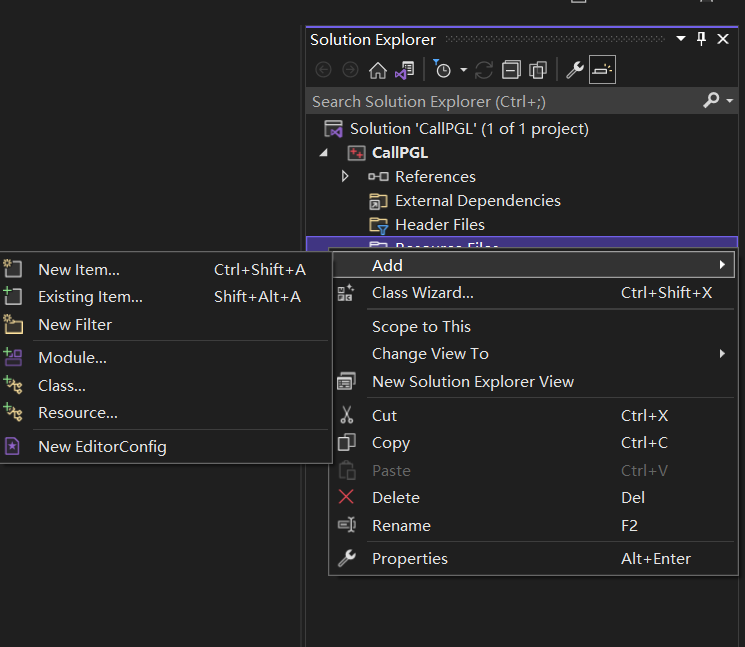
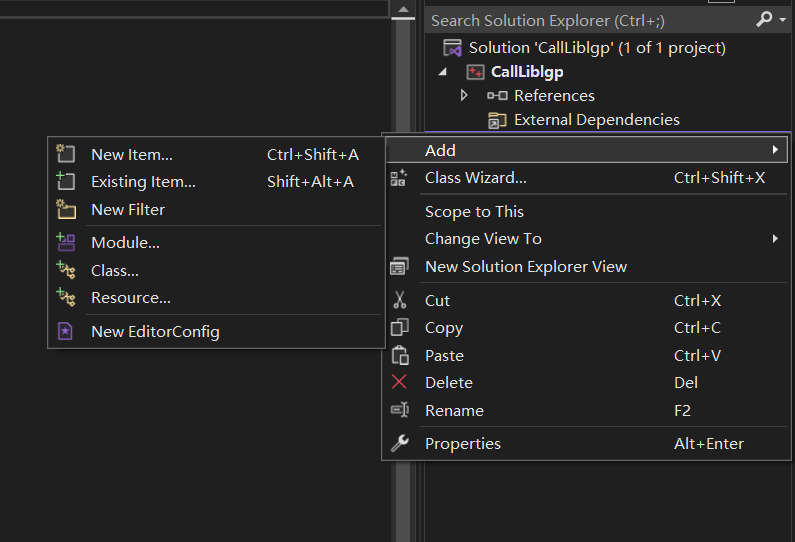
update

Changed region(s): [[0.0, 0.0, 1.0, 1.0], [0.0, 0.2657, 0.2779, 0.6494], [0.8336, 0.5314, 0.9262, 0.5609]]

diff --git a/RI.hpp b/RI.hpp
@@ -3,13 +3,13 @@
 
 #include <iostream>
 #include <map>
-#include "pgl_functs.hpp"
+#include "Liblgp_functs.hpp"
 #include <random>
 #include <unordered_map>
 #include <unordered_set>
 #include <iomanip>
 
-using namespace PGL;
+using namespace Liblgp;
 
 
 //Resume IO Info

diff --git a/README.md b/README.md
@@ -5,27 +5,27 @@ his code is header-only Library developed by Haisen Zhao for his research projec
 Depend on [glm](https://github.com/g-truc/glm.git) and [eigen](https://github.com/libigl/eigen.git) but you don't need to install them explicitly.
 
 
-# Call PGL
+# Call Liblgp
 
 ## Create Project
 - Open your Visual Studio and create a new project.![image-create_a_new_project](images/image-create_a_new_project.png)
 - Right-click on your project in the "Solution Explorer" and select "Add" "New item..."![add-item](images/add-item.png)
 
-## Call PGL in your project
-- Download pgl\_functs.hpp,RI.hpp,tinyxml2.hpp and local\_libs
-- Found Eigen and glm in the local_libs folder and copy pgl\_functs.hpp,RI.hpp,tinyxml2.hpp and the Eigen and glm folders under the local folder to the project location![move_file](images/move_file.png)
-- Then you can call PGL in your code!
-- You can run the following code to check if PGL can be called
+## Call Liblgp in your project
+- Download Liblgp\_functs.hpp,RI.hpp,tinyxml2.hpp and local\_libs
+- Found Eigen and glm in the local_libs folder and copy Liblgp\_functs.hpp,RI.hpp,tinyxml2.hpp and the Eigen and glm folders under the local folder to the project location![move_file](images/move_file.png)
+- Then you can call Liblgp in your code!
+- You can run the following code to check if Liblgp can be called
 
 ```cpp
 
 #include "iostream"
-#include "pgl_functs.hpp"
+#include "Liblgp_functs.hpp"
 #include "RI.hpp"
 #include "tinyxml2.hpp"
 
 using namespace std;
-using namespace PGL;
+using namespace Liblgp;
 
 int main(int argc, char* argv[])
 
@@ -45,50 +45,78 @@ int main(int argc, char* argv[])
 
 ```
 
-include(ExternalProject)
-ExternalProject_Add(
-    pgl
-    PREFIX ${CMAKE_BINARY_DIR}/third_party/pgl
-    GIT_REPOSITORY https://github.com/haisenzhao/personal-geom-lib.git
-    CONFIGURE_COMMAND ""
-	UPDATE_DISCONNECTED 1
-    BUILD_COMMAND ""
-    INSTALL_COMMAND ""
-    LOG_DOWNLOAD ON
-    )
-ExternalProject_Get_Property(pgl source_dir)
-set(PglIncludeDir ${source_dir})
+cmake_minimum_required(VERSION 3.5)
 
-ExternalProject_Add(
-    glm
-    PREFIX ${CMAKE_BINARY_DIR}/third_party/glm
-    GIT_REPOSITORY https://github.com/g-truc/glm.git
-    CONFIGURE_COMMAND ""
-	UPDATE_DISCONNECTED 1
-    BUILD_COMMAND ""
-    INSTALL_COMMAND ""
-    LOG_DOWNLOAD ON
-    )
-ExternalProject_Get_Property(glm source_dir)
-set(GlmIncludeDir ${source_dir})
+set(CMAKE_CXX_STANDARD 11)
 
-ExternalProject_Add(
-    eigen
-    PREFIX ${CMAKE_BINARY_DIR}/third_party/eigen
-    GIT_REPOSITORY https://github.com/libigl/eigen.git
-    CONFIGURE_COMMAND ""
-	UPDATE_DISCONNECTED 1
-    BUILD_COMMAND ""
-    INSTALL_COMMAND ""
-    LOG_DOWNLOAD ON
-    )
-ExternalProject_Get_Property(eigen source_dir)
-set(EigenIncludeDir ${source_dir})
+# Set the project name
+project (liblgp)
 
-include_directories(${GlmIncludeDir} ${PglIncludeDir} ${EigenIncludeDir})
-add_dependencies(${PROJECT_NAME} pgl)
-add_dependencies(${PROJECT_NAME} glm)
-add_dependencies(${PROJECT_NAME} eigen)
+#add _CRT_SECURE_NO_WARNINGS
+if(MSVC)
+    add_definitions(-D_CRT_SECURE_NO_WARNINGS)
+endif()
+
+#define option to use local libs
+option(USE_LOCAL_LIBS "Use local library" OFF)
+
+
+# Create a sources variable with a link to all cpp files to compile
+set(SOURCES
+    Liblgp_functs.hpp
+    RI.hpp
+    tinyxml2.hpp
+    main.cpp
+)
+# Add an executable with the above sources
+add_executable(liblgp ${SOURCES})
+
+if(USE_LOCAL_LIBS)
+   set(GlmIncludeDir ${PROJECT_SOURCE_DIR}/local_libs)
+   set(EigenIncludeDir ${PROJECT_SOURCE_DIR}/local_libs)
+else()
+   include(ExternalProject)
+   ExternalProject_Add(
+       glm
+       PREFIX ${CMAKE_BINARY_DIR}/third_party/glm
+       GIT_REPOSITORY https://github.com/g-truc/glm.git
+       CONFIGURE_COMMAND ""
+   	   UPDATE_DISCONNECTED 1
+       BUILD_COMMAND ""
+       INSTALL_COMMAND ""
+       LOG_DOWNLOAD ON
+       )
+   ExternalProject_Get_Property(glm source_dir)
+   set(GlmIncludeDir ${source_dir})
+
+
+   ExternalProject_Add(
+       eigen
+       PREFIX ${CMAKE_BINARY_DIR}/third_party/eigen
+       GIT_REPOSITORY https://github.com/libigl/eigen.git
+       CONFIGURE_COMMAND ""
+	   UPDATE_DISCONNECTED 1
+       BUILD_COMMAND ""
+       INSTALL_COMMAND ""
+       LOG_DOWNLOAD ON
+       )
+   ExternalProject_Get_Property(eigen source_dir)
+   set(EigenIncludeDir ${source_dir})
+endif()
+
+
+
+target_include_directories(${PROJECT_NAME} PUBLIC ${PROJECT_BINARY_DIR} PRIVATE ${GlmIncludeDir} ${EigenIncludeDir})
+
+include_directories(${PROJECT_SOURCE_DIR})
+
+if(NOT USE_LOCAL_LIBS)
+   add_dependencies(${PROJECT_NAME} glm)
+   add_dependencies(${PROJECT_NAME} eigen)
+endif()
+
+#set_target_properties(liblgp PROPERTIES LINKER_LANGUAGE C)
+
 ```
 ## Cmake option
 - When you use Cmake, you can choose third-party library or self-content library.![cmake_option](images/cmake_option.png)
